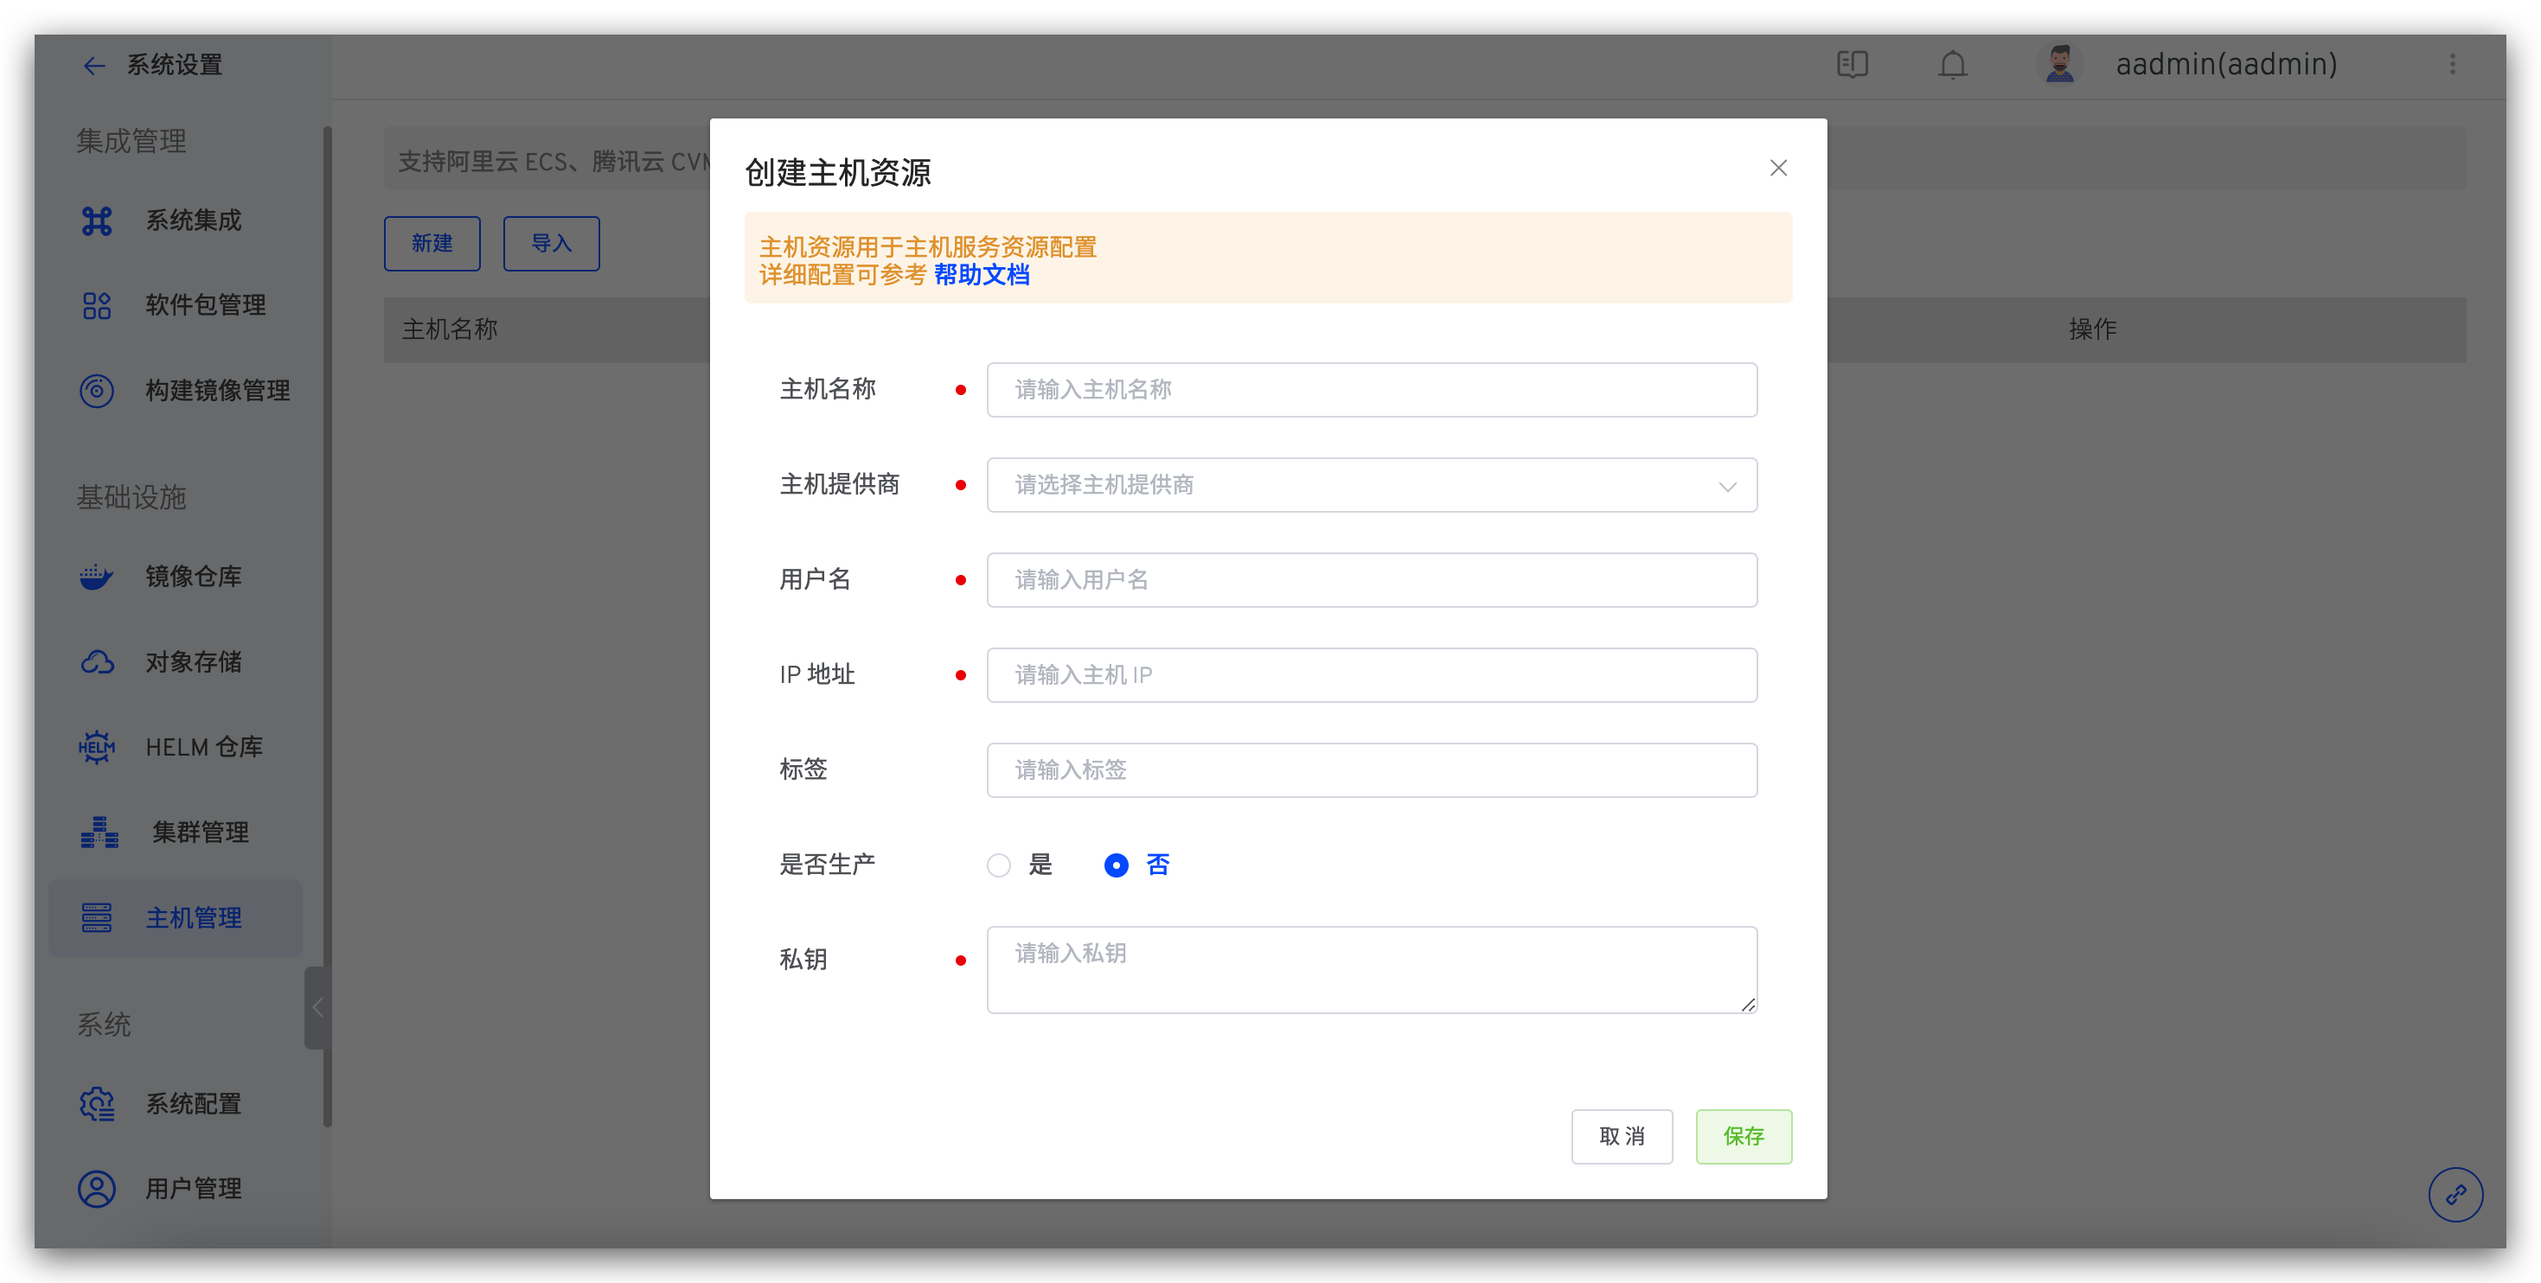
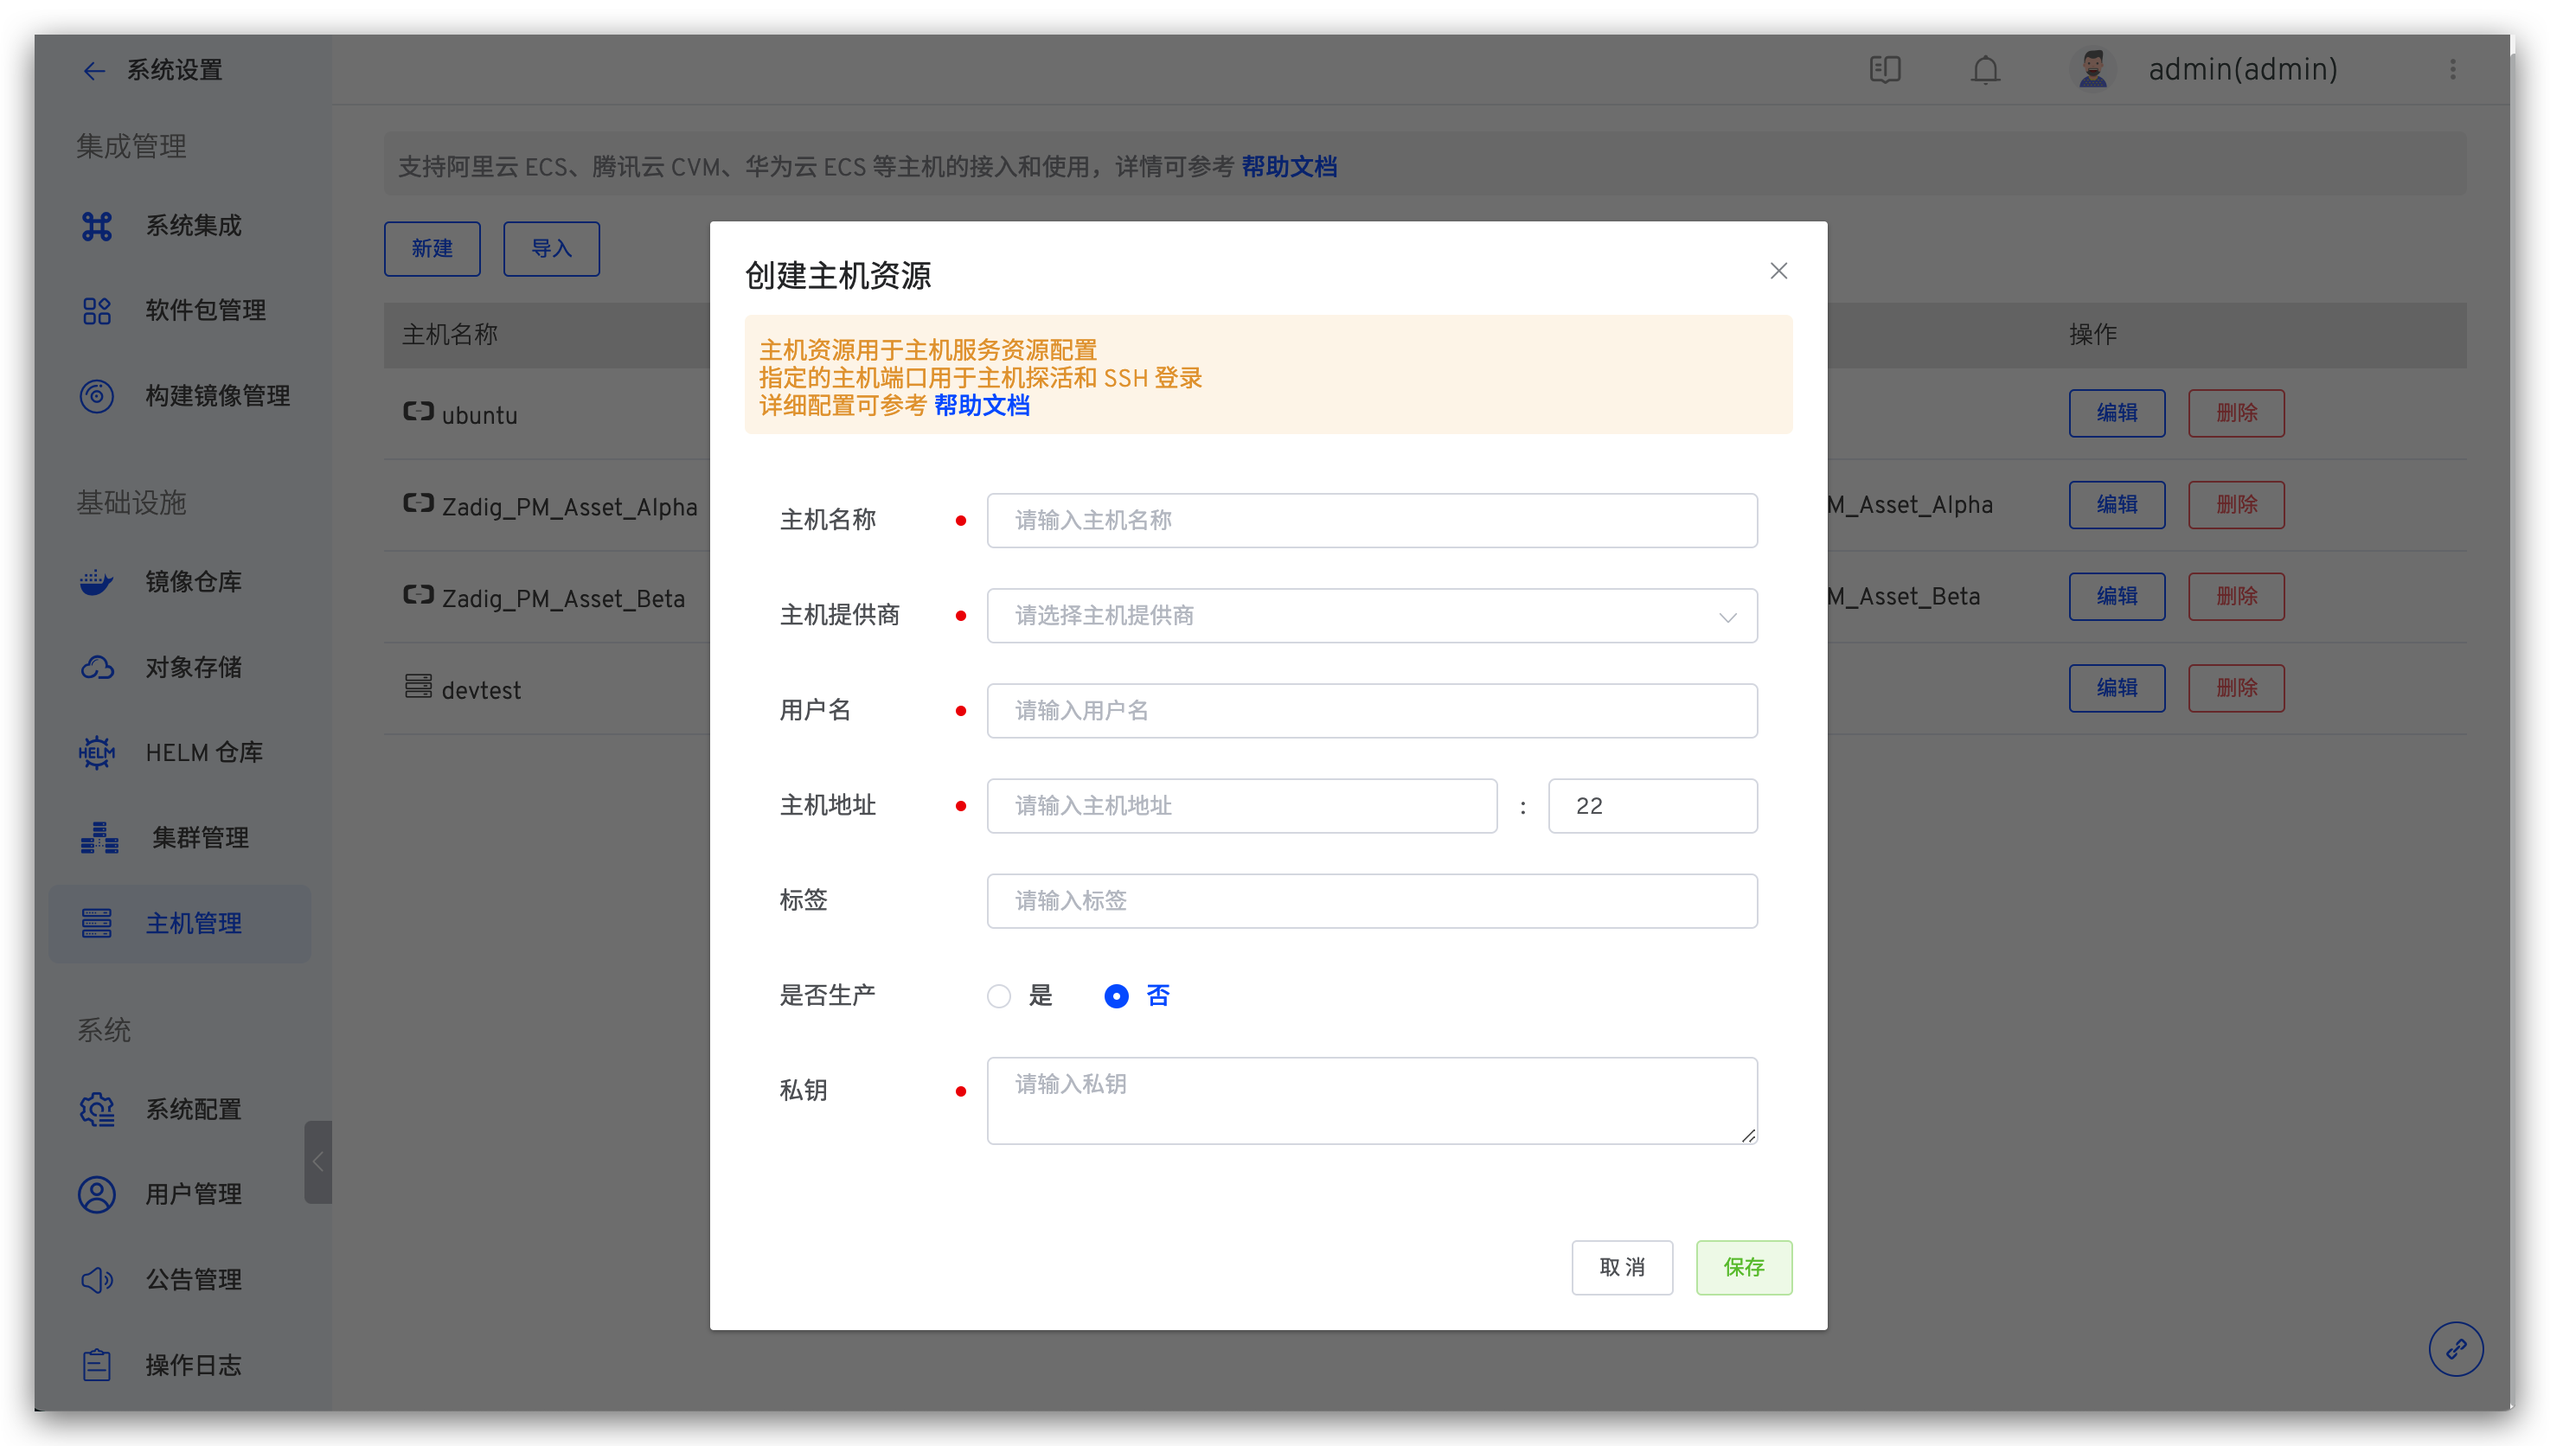
vm status probe

diff --git a/dev/12.系统设置/12.machine_manage.md b/dev/12.系统设置/12.machine_manage.md
@@ -6,7 +6,15 @@ permalink: /dev/settings/vm-management/
 
 本文介绍如何在 Zadig 系统上进行主机管理。
 
-## 添加单个主机资源
+## 查看主机
+
+管理员登录 Zadig，在`系统设置` ->  `主机管理`中可查看所有主机资源，系统会基于配置中的端口，定时（每 10 秒）对主机进行 TCP 探活，检测主机在线状态。
+
+![vm_list](./_images/vm_list.png)
+
+## 添加主机
+
+### 添加单个主机
 
 管理员登录 Zadig, 进入 `系统设置` -> `主机管理`，点击`新建`
 
@@ -19,7 +27,8 @@ permalink: /dev/settings/vm-management/
 - `标签`：自定义，主机标签
 - `私钥`：SSH 访问私钥。通过 ssh-keygen -t rsa -C "your_email@example.com" 方式生成
 
-## 批量导入主机
+### 批量导入主机
+
 管理员登录，进入 `系统设置` -> `主机管理`，点击`新建`
 
 ![machine_resource_bulk_import](./_images/machine_resource_bulk_import.png)
@@ -31,7 +40,6 @@ permalink: /dev/settings/vm-management/
 - `导入选项`：
     1. 增量：主机管理列表中已有条目不会重新导入，仅添加文件中新增的主机信息。
     2. 覆盖已有主机：主机管理列表中的已有条目重新导入且添加文件中新增的主机信息。
-
 
 ## 主机使用
 
